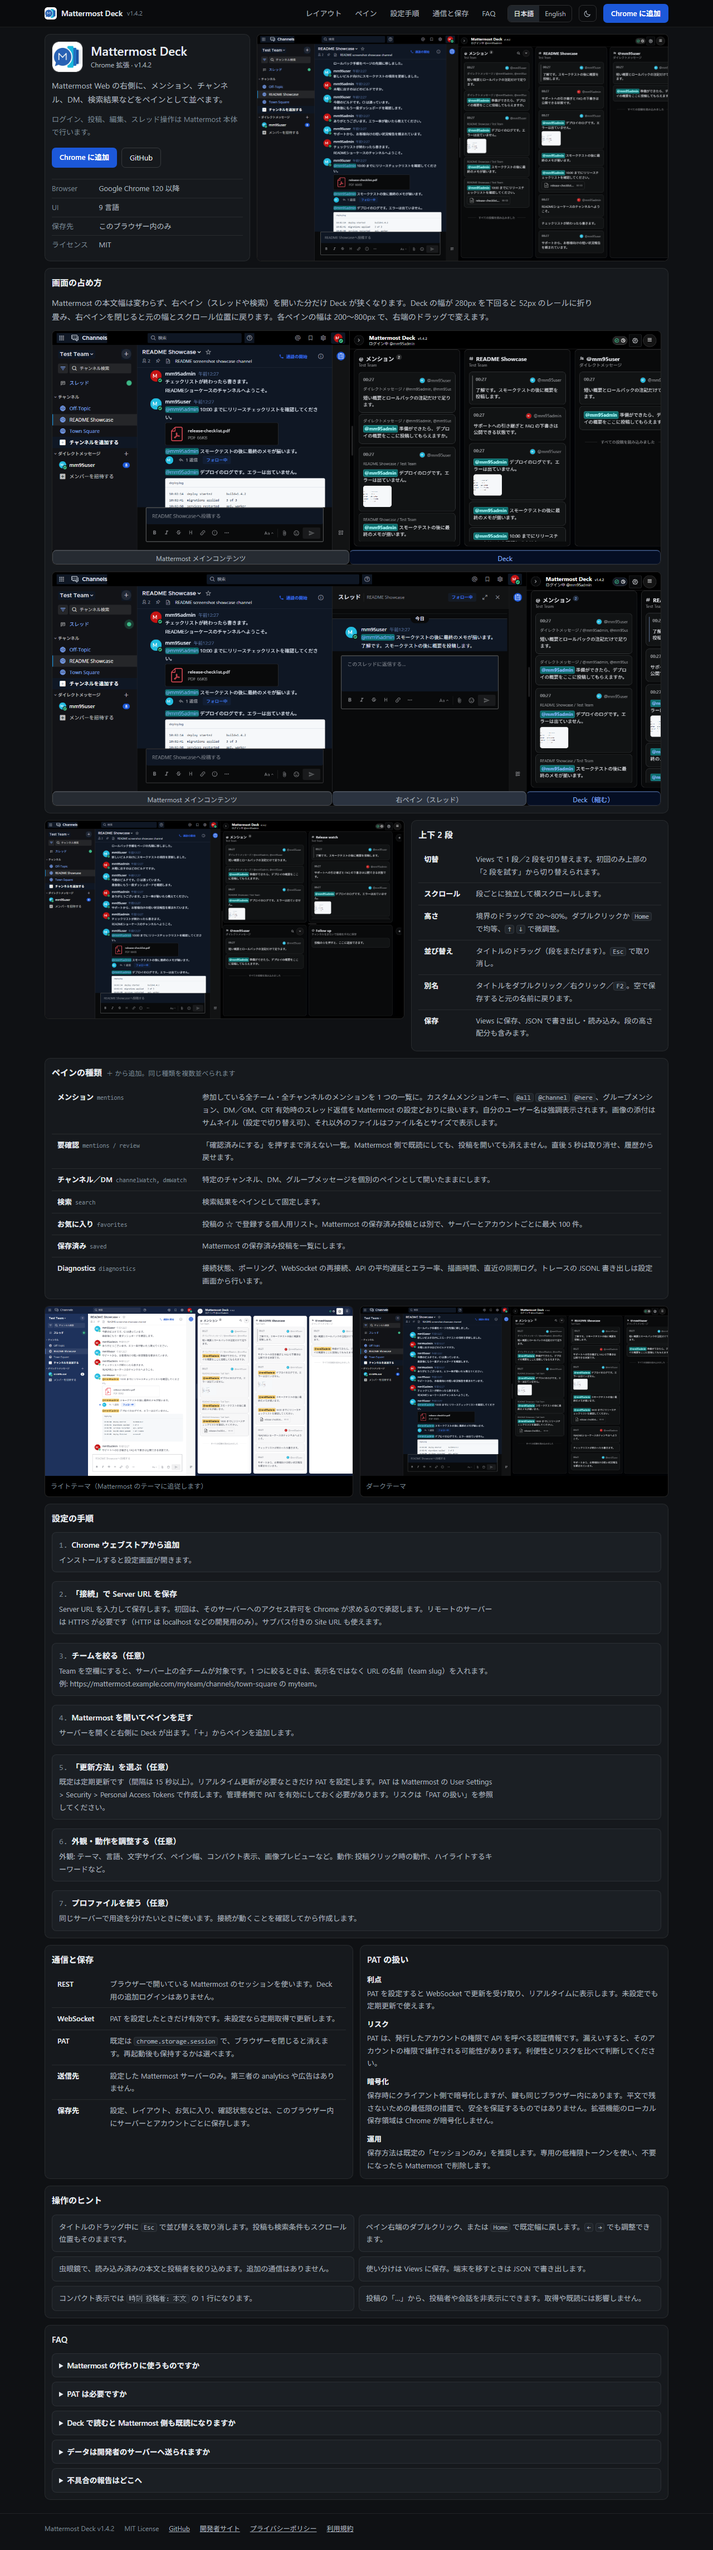
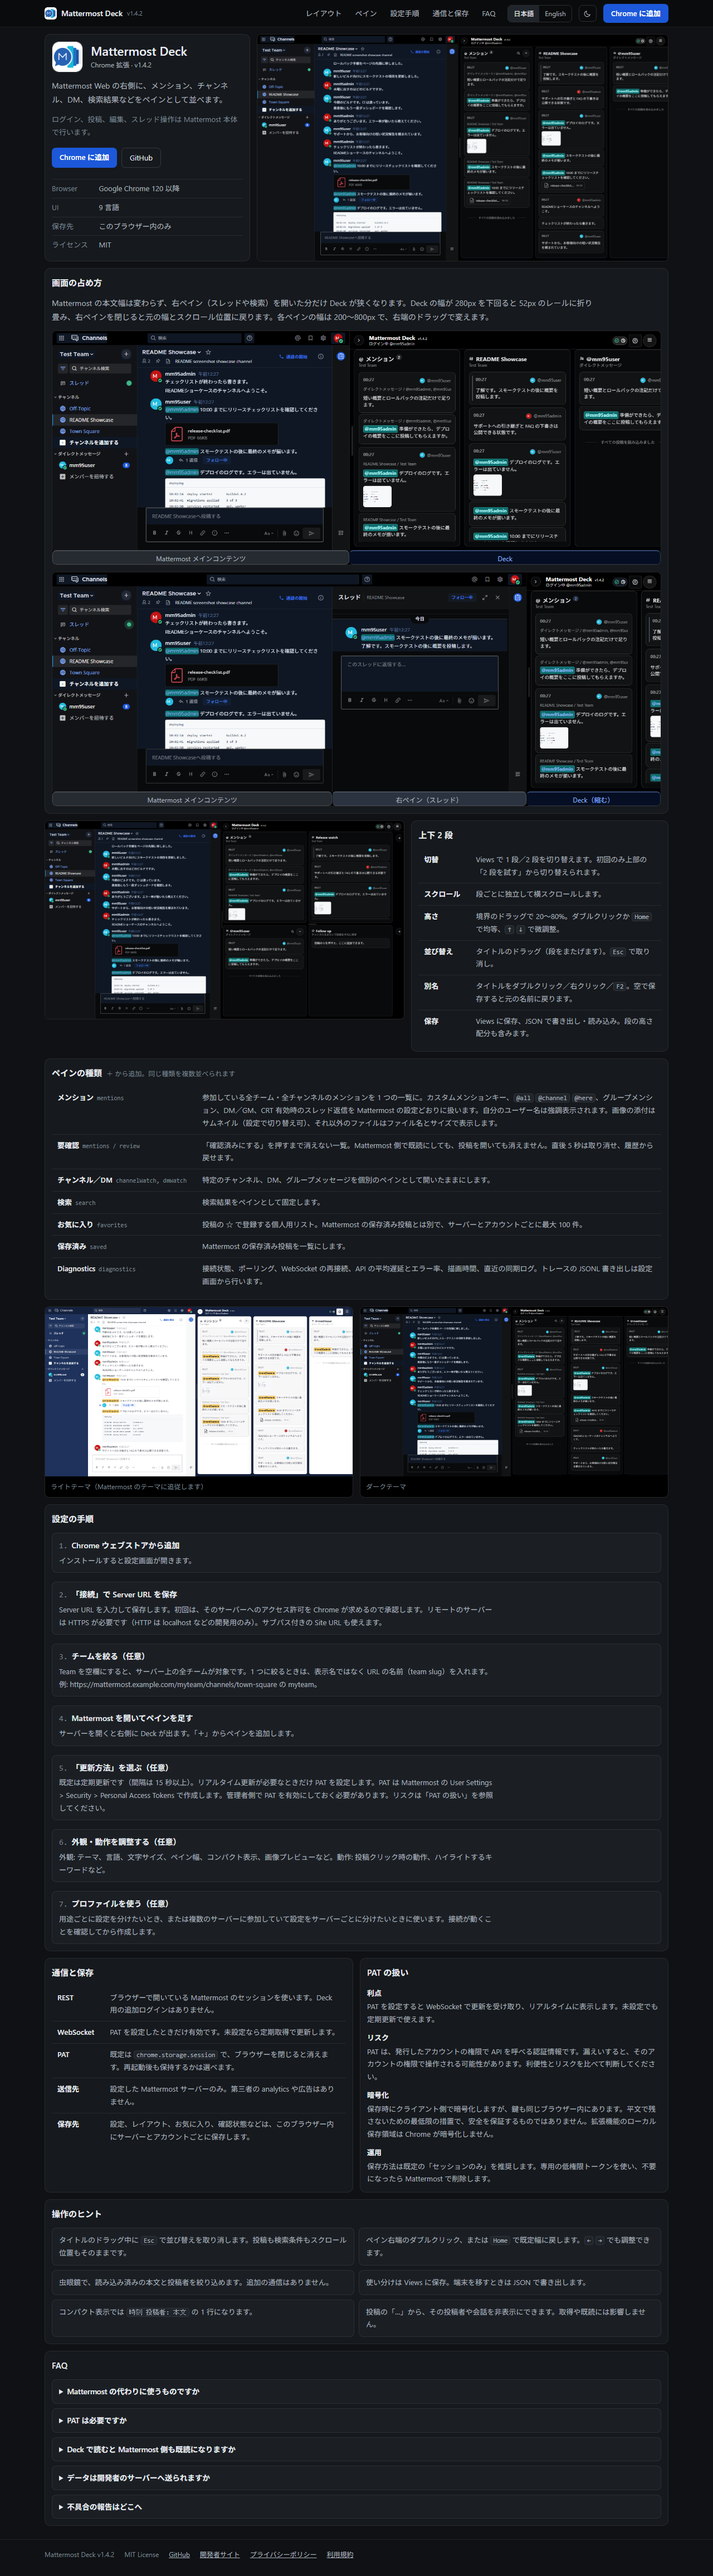
update: balance ja/en text length and clarify profiles description

diff --git a/mock/deck-tone.html b/mock/deck-tone.html
@@ -70,7 +70,7 @@
   <section id="layout" class="pane">
     <h2><span lang="ja">画面の占め方</span><span lang="en">How it uses the width</span></h2>
     <p class="lead">
-      <span lang="ja">Mattermost の本文幅は変わらず、右ペイン（スレッドや検索）を開いた分だけ Deck が狭くなります。Deck の幅が 280px を下回ると 52px のレールに折り畳み、右ペインを閉じると元の幅とスクロール位置に戻ります。各ペインの幅は 200〜800px で、右端のドラッグで変えます。</span><span lang="en">The Mattermost main area keeps its width, and Deck narrows by the width of the right pane (thread or search). Below 280 px, Deck collapses to a 52 px rail; when the right pane closes, it returns to its width and scroll position. Each pane is 200–800 px wide and resizes by dragging its right edge.</span>
+      <span lang="ja">Mattermost の本文幅は変わらず、右ペイン（スレッドや検索）を開いた分だけ Deck が狭くなります。Deck の幅が 280px を下回ると 52px のレールに折り畳み、右ペインを閉じると元の幅とスクロール位置に戻ります。各ペインの幅は 200〜800px で、右端のドラッグで変えます。</span><span lang="en">The Mattermost main area keeps its width; Deck narrows by the width of the right pane (thread or search). Below 280 px it collapses to a 52 px rail, and returns to its width and scroll position when the pane closes. Panes are 200–800 px wide, resized by dragging the right edge.</span>
     </p>
     <div class="stack">
       <figure class="shot annotated">
@@ -100,11 +100,11 @@
     <div class="pane">
       <h2><span lang="ja">上下 2 段</span><span lang="en">Two rows</span></h2>
       <table class="list">
-        <tr><td class="k"><span lang="ja">切替</span><span lang="en">Switch</span></td><td><span lang="ja">Views で 1 段／2 段を切り替えます。初回のみ上部の「2 段を試す」から切り替えられます。</span><span lang="en">Switch between one and two rows from Views. A one-time “Try two rows” shortcut also appears above the panes.</span></td></tr>
+        <tr><td class="k"><span lang="ja">切替</span><span lang="en">Switch</span></td><td><span lang="ja">Views で 1 段／2 段を切り替えます。初回のみ上部の「2 段を試す」から切り替えられます。</span><span lang="en">Switch rows from Views. A one-time “Try two rows” shortcut appears above the panes.</span></td></tr>
         <tr><td class="k"><span lang="ja">スクロール</span><span lang="en">Scrolling</span></td><td><span lang="ja">段ごとに独立して横スクロールします。</span><span lang="en">Each row scrolls horizontally on its own.</span></td></tr>
         <tr><td class="k"><span lang="ja">高さ</span><span lang="en">Height</span></td><td><span lang="ja">境界のドラッグで 20〜80%。ダブルクリックか <kbd>Home</kbd> で均等、<kbd>↑</kbd> <kbd>↓</kbd> で微調整。</span><span lang="en">Drag the divider, 20–80%. Double-click or <kbd>Home</kbd> to even out; <kbd>↑</kbd> <kbd>↓</kbd> adjust.</span></td></tr>
         <tr><td class="k"><span lang="ja">並び替え</span><span lang="en">Reorder</span></td><td><span lang="ja">タイトルのドラッグ（段をまたげます）。<kbd>Esc</kbd> で取り消し。</span><span lang="en">Drag a title, across rows too. <kbd>Esc</kbd> cancels.</span></td></tr>
-        <tr><td class="k"><span lang="ja">別名</span><span lang="en">Rename</span></td><td><span lang="ja">タイトルをダブルクリック／右クリック／<kbd>F2</kbd>。空で保存すると元の名前に戻ります。</span><span lang="en">Double-click or right-click the title, or <kbd>F2</kbd>. Save empty to restore the original.</span></td></tr>
+        <tr><td class="k"><span lang="ja">別名</span><span lang="en">Rename</span></td><td><span lang="ja">タイトルをダブルクリック／右クリック／<kbd>F2</kbd>。空で保存すると元の名前に戻ります。</span><span lang="en">Double-click, right-click, or <kbd>F2</kbd> on the title. Blank restores the name.</span></td></tr>
         <tr><td class="k"><span lang="ja">保存</span><span lang="en">Saving</span></td><td><span lang="ja">Views に保存、JSON で書き出し・読み込み。段の高さ配分も含みます。</span><span lang="en">Save as Views; export and import as JSON, including the height split.</span></td></tr>
       </table>
     </div>
@@ -114,12 +114,12 @@
     <h2><span lang="ja">ペインの種類</span><span lang="en">Pane types</span><span class="sub"><span lang="ja">＋ から追加。同じ種類を複数並べられます</span><span lang="en">Add with +. The same type can be used more than once</span></span></h2>
     <table class="list">
       <tr><td class="k"><span lang="ja">メンション</span><span lang="en">Mentions</span><span class="id">mentions</span></td><td><span lang="ja">参加している全チーム・全チャンネルのメンションを 1 つの一覧に。カスタムメンションキー、<code>@all</code> <code>@channel</code> <code>@here</code>、グループメンション、DM／GM、CRT 有効時のスレッド返信を Mattermost の設定どおりに扱います。自分のユーザー名は強調表示されます。画像の添付はサムネイル（設定で切り替え可）、それ以外のファイルはファイル名とサイズで表示します。</span><span lang="en">Mentions from every joined team and channel in one list: custom keys, <code>@all</code> <code>@channel</code> <code>@here</code>, group mentions, DMs/GMs, and thread replies under CRT, resolved per your Mattermost settings. Your own username is highlighted. Image attachments show as thumbnails (switchable in settings); other files show as a name and size.</span></td></tr>
-      <tr><td class="k"><span lang="ja">要確認</span><span lang="en">Review</span><span class="id">mentions / review</span></td><td><span lang="ja">「確認済みにする」を押すまで消えない一覧。Mattermost 側で既読にしても、投稿を開いても消えません。直後 5 秒は取り消せ、履歴から戻せます。</span><span lang="en">Posts stay until you confirm them explicitly; reading or opening them in Mattermost does not remove them. Undo for five seconds; restore from history.</span></td></tr>
+      <tr><td class="k"><span lang="ja">要確認</span><span lang="en">Review</span><span class="id">mentions / review</span></td><td><span lang="ja">「確認済みにする」を押すまで消えない一覧。Mattermost 側で既読にしても、投稿を開いても消えません。直後 5 秒は取り消せ、履歴から戻せます。</span><span lang="en">Posts stay until you confirm them; reading or opening them in Mattermost does not remove them. Five-second undo, plus history.</span></td></tr>
       <tr><td class="k"><span lang="ja">チャンネル／DM</span><span lang="en">Channel / DM</span><span class="id">channelWatch, dmWatch</span></td><td><span lang="ja">特定のチャンネル、DM、グループメッセージを個別のペインとして開いたままにします。</span><span lang="en">Keeps a channel, DM, or group message open as its own pane.</span></td></tr>
       <tr><td class="k"><span lang="ja">検索</span><span lang="en">Search</span><span class="id">search</span></td><td><span lang="ja">検索結果をペインとして固定します。</span><span lang="en">Pins a set of search results as a pane.</span></td></tr>
       <tr><td class="k"><span lang="ja">お気に入り</span><span lang="en">Favorites</span><span class="id">favorites</span></td><td><span lang="ja">投稿の ☆ で登録する個人用リスト。Mattermost の保存済み投稿とは別で、サーバーとアカウントごとに最大 100 件。</span><span lang="en">A personal list added with ☆ on a post, separate from Mattermost saved posts. Up to 100 per server and account.</span></td></tr>
       <tr><td class="k"><span lang="ja">保存済み</span><span lang="en">Saved</span><span class="id">saved</span></td><td><span lang="ja">Mattermost の保存済み投稿を一覧にします。</span><span lang="en">Lists your Mattermost saved posts.</span></td></tr>
-      <tr><td class="k">Diagnostics<span class="id">diagnostics</span></td><td><span lang="ja">接続状態、ポーリング、WebSocket の再接続、API の平均遅延とエラー率、描画時間、直近の同期ログ。トレースの JSONL 書き出しは設定画面から行います。</span><span lang="en">Connection status, polling, WebSocket reconnects, API average latency and error rate, render time, and the recent sync log. Trace export as JSONL is in Settings.</span></td></tr>
+      <tr><td class="k">Diagnostics<span class="id">diagnostics</span></td><td><span lang="ja">接続状態、ポーリング、WebSocket の再接続、API の平均遅延とエラー率、描画時間、直近の同期ログ。トレースの JSONL 書き出しは設定画面から行います。</span><span lang="en">Connection status, polling, WebSocket reconnects, API latency and error rate, render time, recent sync log. JSONL trace export is in Settings.</span></td></tr>
     </table>
   </section>
 
@@ -136,8 +136,8 @@
       <div class="card"><b><span lang="ja">チームを絞る（任意）</span><span lang="en">Limit to one team (optional)</span></b><p><span lang="ja">Team を空欄にすると、サーバー上の全チームが対象です。1 つに絞るときは、表示名ではなく URL の名前（team slug）を入れます。例: https://mattermost.example.com/myteam/channels/town-square の myteam。</span><span lang="en">Leave Team blank to use every team on the server. To use one team, enter its URL name (team slug), not its display name. Example: myteam in https://mattermost.example.com/myteam/channels/town-square.</span></p></div>
       <div class="card"><b><span lang="ja">Mattermost を開いてペインを足す</span><span lang="en">Open Mattermost and add panes</span></b><p><span lang="ja">サーバーを開くと右側に Deck が出ます。「＋」からペインを追加します。</span><span lang="en">Open the server and Deck appears on the right. Add panes with “+”.</span></p></div>
       <div class="card"><b><span lang="ja">「更新方法」を選ぶ（任意）</span><span lang="en">Choose an update method (optional)</span></b><p><span lang="ja">既定は定期更新です（間隔は 15 秒以上）。リアルタイム更新が必要なときだけ PAT を設定します。PAT は Mattermost の User Settings > Security > Personal Access Tokens で作成します。管理者側で PAT を有効にしておく必要があります。リスクは「PAT の扱い」を参照してください。</span><span lang="en">Updates are periodic by default (interval of 15 seconds or more). Set a PAT only when you need realtime updates. Create it in Mattermost under User Settings > Security > Personal Access Tokens; an administrator must have enabled PATs. See “Using a PAT” for the risks.</span></p></div>
-      <div class="card"><b><span lang="ja">外観・動作を調整する（任意）</span><span lang="en">Adjust Appearance and Behavior (optional)</span></b><p><span lang="ja">外観: テーマ、言語、文字サイズ、ペイン幅、コンパクト表示、画像プレビューなど。動作: 投稿クリック時の動作、ハイライトするキーワードなど。</span><span lang="en">Appearance: theme, language, font size, pane width, compact mode, image previews. Behavior: post click action, highlight keywords, and similar options.</span></p></div>
-      <div class="card"><b><span lang="ja">プロファイルを使う（任意）</span><span lang="en">Use profiles (optional)</span></b><p><span lang="ja">同じサーバーで用途を分けたいときに使います。接続が動くことを確認してから作成します。</span><span lang="en">Use them to keep separate setups for one server. Create them once the connection works.</span></p></div>
+      <div class="card"><b><span lang="ja">外観・動作を調整する（任意）</span><span lang="en">Adjust Appearance and Behavior (optional)</span></b><p><span lang="ja">外観: テーマ、言語、文字サイズ、ペイン幅、コンパクト表示、画像プレビューなど。動作: 投稿クリック時の動作、ハイライトするキーワードなど。</span><span lang="en">Appearance: theme, language, font size, pane width, compact mode, image previews. Behavior: post click action, highlight keywords.</span></p></div>
+      <div class="card"><b><span lang="ja">プロファイルを使う（任意）</span><span lang="en">Use profiles (optional)</span></b><p><span lang="ja">用途ごとに設定を分けたいとき、または複数のサーバーに参加していて設定をサーバーごとに分けたいときに使います。接続が動くことを確認してから作成します。</span><span lang="en">Use them to keep separate settings per purpose, or per server when you join more than one. Create them once the connection works.</span></p></div>
     </div>
   </section>
 
@@ -147,7 +147,7 @@
       <table class="list">
       <tr><td class="k">REST</td><td><span lang="ja">ブラウザーで開いている Mattermost のセッションを使います。Deck 用の追加ログインはありません。</span><span lang="en">Uses the Mattermost session already open in the browser. No separate sign-in.</span></td></tr>
       <tr><td class="k">WebSocket</td><td><span lang="ja">PAT を設定したときだけ有効です。未設定なら定期取得で更新します。</span><span lang="en">Only when a PAT is set. Otherwise Deck polls.</span></td></tr>
-      <tr><td class="k">PAT</td><td><span lang="ja">既定は <code>chrome.storage.session</code> で、ブラウザーを閉じると消えます。再起動後も保持するかは選べます。</span><span lang="en">Stored in <code>chrome.storage.session</code> by default, which is cleared when the browser session ends. You can choose to keep it across restarts.</span></td></tr>
+      <tr><td class="k">PAT</td><td><span lang="ja">既定は <code>chrome.storage.session</code> で、ブラウザーを閉じると消えます。再起動後も保持するかは選べます。</span><span lang="en">Kept in <code>chrome.storage.session</code> by default and cleared when the browser session ends. Persisting across restarts is optional.</span></td></tr>
       <tr><td class="k"><span lang="ja">送信先</span><span lang="en">Sent to</span></td><td><span lang="ja">設定した Mattermost サーバーのみ。第三者の analytics や広告はありません。</span><span lang="en">Only the Mattermost server you configured. No third-party analytics or ads.</span></td></tr>
       <tr><td class="k"><span lang="ja">保存先</span><span lang="en">Stored in</span></td><td><span lang="ja">設定、レイアウト、お気に入り、確認状態などは、このブラウザー内にサーバーとアカウントごとに保存します。</span><span lang="en">Settings, layouts, favorites, and review state are kept in this browser, per server and account.</span></td></tr>
       </table>
@@ -156,9 +156,9 @@
       <h2><span lang="ja">PAT の扱い</span><span lang="en">Using a PAT</span></h2>
       <div class="notes">
       <p><b><span lang="ja">利点</span><span lang="en">Benefit</span></b><span lang="ja">PAT を設定すると WebSocket で更新を受け取り、リアルタイムに表示します。未設定でも定期更新で使えます。</span><span lang="en">With a PAT, Deck receives updates over WebSocket and shows them in real time. Without one, it polls.</span></p>
-      <p><b><span lang="ja">リスク</span><span lang="en">Risk</span></b><span lang="ja">PAT は、発行したアカウントの権限で API を呼べる認証情報です。漏えいすると、そのアカウントの権限で操作される可能性があります。利便性とリスクを比べて判断してください。</span><span lang="en">A PAT is a credential that can call the API with the permissions of the account that created it. If it leaks, it can be used with that account's permissions. Weigh the convenience against that risk.</span></p>
-      <p><b><span lang="ja">暗号化</span><span lang="en">Encryption</span></b><span lang="ja">保存時にクライアント側で暗号化しますが、鍵も同じブラウザー内にあります。平文で残さないための最低限の措置で、安全を保証するものではありません。拡張機能のローカル保存領域は Chrome が暗号化しません。</span><span lang="en">A stored PAT is encrypted on the client, but the key is in the same browser. This only avoids keeping it as plain text and does not guarantee safety. Chrome does not encrypt an extension's local storage.</span></p>
-      <p><b><span lang="ja">運用</span><span lang="en">Practice</span></b><span lang="ja">保存方法は既定の「セッションのみ」を推奨します。専用の低権限トークンを使い、不要になったら Mattermost で削除します。</span><span lang="en">Keep the default “Session only” storage. Use a dedicated low-privilege token and delete it in Mattermost when you stop using it.</span></p>
+      <p><b><span lang="ja">リスク</span><span lang="en">Risk</span></b><span lang="ja">PAT は、発行したアカウントの権限で API を呼べる認証情報です。漏えいすると、そのアカウントの権限で操作される可能性があります。利便性とリスクを比べて判断してください。</span><span lang="en">A PAT calls the API with the permissions of the account that created it. If it leaks, it can be misused with those permissions. Weigh the convenience against that risk.</span></p>
+      <p><b><span lang="ja">暗号化</span><span lang="en">Encryption</span></b><span lang="ja">保存時にクライアント側で暗号化しますが、鍵も同じブラウザー内にあります。平文で残さないための最低限の措置で、安全を保証するものではありません。拡張機能のローカル保存領域は Chrome が暗号化しません。</span><span lang="en">A stored PAT is encrypted on the client, but the key is in the same browser. That only avoids plain text and guarantees nothing. Chrome does not encrypt extension local storage.</span></p>
+      <p><b><span lang="ja">運用</span><span lang="en">Practice</span></b><span lang="ja">保存方法は既定の「セッションのみ」を推奨します。専用の低権限トークンを使い、不要になったら Mattermost で削除します。</span><span lang="en">Keep the default “Session only” storage. Use a dedicated low-privilege token and delete it in Mattermost when done.</span></p>
       </div>
     </div>
   </section>
@@ -166,12 +166,12 @@
   <section class="pane">
     <h2><span lang="ja">操作のヒント</span><span lang="en">Tips</span></h2>
     <ol class="tips">
-      <li><span lang="ja">タイトルのドラッグ中に <kbd>Esc</kbd> で並び替えを取り消します。投稿も検索条件もスクロール位置もそのままです。</span><span lang="en">Press <kbd>Esc</kbd> while dragging a title to cancel the move. Posts, filters, and scroll positions stay as they were.</span></li>
+      <li><span lang="ja">タイトルのドラッグ中に <kbd>Esc</kbd> で並び替えを取り消します。投稿も検索条件もスクロール位置もそのままです。</span><span lang="en"><kbd>Esc</kbd> while dragging a title cancels the move. Posts, filters, and scroll positions stay put.</span></li>
       <li><span lang="ja">ペイン右端のダブルクリック、または <kbd>Home</kbd> で既定幅に戻します。<kbd>←</kbd> <kbd>→</kbd> でも調整できます。</span><span lang="en">Double-click a pane's right edge or press <kbd>Home</kbd> for the default width. <kbd>←</kbd> <kbd>→</kbd> adjust it.</span></li>
       <li><span lang="ja">虫眼鏡で、読み込み済みの本文と投稿者を絞り込めます。追加の通信はありません。</span><span lang="en">The magnifier filters loaded posts by text or author. No extra requests.</span></li>
       <li><span lang="ja">使い分けは Views に保存。端末を移すときは JSON で書き出します。</span><span lang="en">Save each setup as a View. Export to JSON to move machines.</span></li>
       <li><span lang="ja">コンパクト表示では <code>時刻 投稿者: 本文</code> の 1 行になります。</span><span lang="en">Compact mode shows one line: <code>time author: message</code>.</span></li>
-      <li><span lang="ja">投稿の「…」から、投稿者や会話を非表示にできます。取得や既読には影響しません。</span><span lang="en">The “…” menu on a post hides its author or conversation. Fetching and read state are unchanged.</span></li>
+      <li><span lang="ja">投稿の「…」から、その投稿者や会話を非表示にできます。取得や既読には影響しません。</span><span lang="en">“…” on a post hides its author or conversation. Fetching and read state are unaffected.</span></li>
     </ol>
   </section>
 
